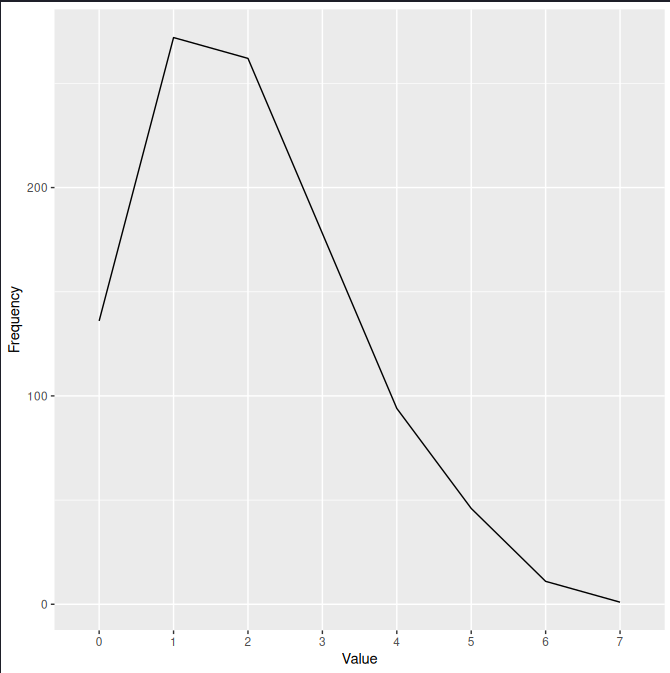
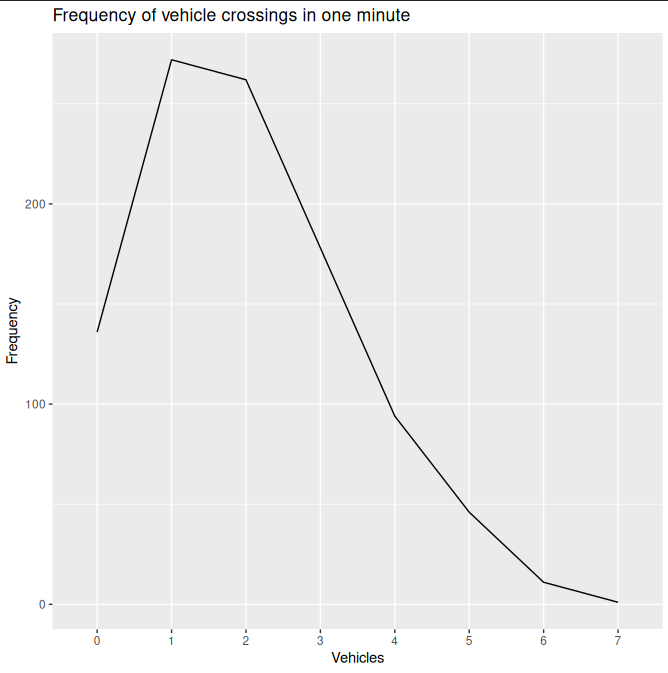
complete assignment?

diff --git a/assignment2/assignment2.md b/assignment2/assignment2.md
@@ -41,11 +41,11 @@ White 450.5  374.9 215.5   339.1
 
 ### _c. State appropriate hypotheses and then carry out the relevant hypothesis test, at the 5% level of significance, to determine if there is an association between the Egg size and Type of egg._
 
-$H_0$ (Null hypothesis): In the population, the Egg size and Type of egg are independent.
+H0 (Null hypothesis): In the population, the Egg size and Type of egg are independent.
 
-$H_1$ (Alternative hypothesis): In the population, the Egg size and Type of egg are dependent.
+H1 (Alternative hypothesis): In the population, the Egg size and Type of egg are dependent.
 
-A Chi-square test was carried out at the 95% confidence level:
+A Chi-square test was carried out at the 95% confidence level (a = 0.05, all cell counts are greater than 5):
 
 ```
 > chisq.test(eggs)
@@ -55,7 +55,7 @@ A Chi-square test was carried out at the 95% confidence level:
 data:  eggs
 X-squared = 54.149, df = 3, p-value = 1.043e-11
 ```
-The p-value was less than 0.001 (p < 0.001), thus the null hypothesis is not rejected. At 5% level of significance, data does not provide sufficient evidence to conclude that Egg size and Type of egg are dependent.
+The p-value was less than 0.001 (p < 0.001), thus the null hypothesis is not rejected. At 5% level of significance, data does not provide sufficient evidence to conclude that the Egg size and egg Type of purchased cartons are dependent.
 
 ## Question 2
 
@@ -146,7 +146,11 @@ _The number of vehicles pass a bridge in one-minute interval were recorded over 
 
 ```
 > expected$Actual <- table(passes$no_of.vec)
-> ggplot(expected, aes(Value)) + geom_line(aes(y = Expected, colour="Expected")) + geom_line(aes(y = Actual, colour="Actual")) + ylab("Frequency")
+> ggplot(expected, aes(Value)) + 
+        geom_line(aes(y = Expected, colour="Expected")) +
+        geom_line(aes(y = Actual, colour="Actual")) + 
+        ylab("Frequency") +
+        ggtitle("Actual vs expected vehicle frequencies")
 ```
 ![](./plots/Q3e_frequency_actual_vs_expected.png)
 
@@ -187,15 +191,7 @@ _Suppose birth weights of full-term babies have a normal distribution with mean 
 
 ## Question 5
 
-_Suppose a dataset has two numerical variables, $X$ and $Y$. Write a function in R to compute the sample correlation $r\\_X\\_Y$ between the two variables, $X$ and $Y$ is given by_
-
-$$ r\\_X\\_Y = {S\\_X\\_Y \over S\\_YS\\_X} $$
-
-_where_
-
-$$ S\\_X\\_Y = {\sum\\_1^n(X - \bar{X})(Y - \bar{Y}) \over n - 1}, S\\_X = \sqrt{\sum\\_1^n(X - \bar{X})^2 \over n - 1}, S\\_Y = \sqrt{\sum\\_1^n(Y - \bar{Y})^2 \over n - 1} $$
-
-_and $n$ is the sample size and $\bar{X}$ and $\bar{Y}$ are the sample means for the variables $X$ and $Y$._
+![](./q5_math.png)
 
 ```r
 > correlation_s <- function(x, y, n) {
@@ -225,12 +221,13 @@ _The dataset was extracted from a study investigated the adequacy of the AQ and 
 
 ### _a. It is often felt that on average female have better quality of life than male counterpart. Check all the assumptions and choose an appropriate hypothesis test to investigate this contention using the variables from your data._
 
-$H_0$ (Null hypothesis): In the population, female mean quality of life is less than or equal to mean male quality of life.
+H0 (Null hypothesis): In the population, female mean quality of life is equal to mean male quality of life.
 
-$H_1$ (Alternative hypothesis): In the population, female mean quality of life is greater than mean male quality of life.
+H1 (Alternative hypothesis): In the population, female mean quality of life is greater than mean male quality of life.
 
 The following assumptions need to be verified:
-  - Samples have approximately equal variations, and 
+  - Two groups are independent
+  - Samples have approximately equal variances, and 
   - Samples are drawn from normally distributed populations
 
 ```
@@ -265,29 +262,35 @@ W = 0.91286, p-value = 0.02666
 data:  q6[q6$X == "Female", "Q22"]
 W = 0.9824, p-value = 0.3922
 ```
-As seen from the boxplot, Female and Male Q22 responses appear to have roughly equal variance, with the Levene test confirming this (p > 0.05). However, Male Q22 responses seem to be negatively skewed, whereas Female responses appear normal, as confirmed by the Shapiro-Wilk tests (Female p > 0.05, Male p < 0.05). Therefore, the assumption of normality is violated, and the non-parametric Mann-Whitney U test should be used instead:
+From the study design, the two groups Male and Female are independent. As seen from the boxplot, Female and Male Q22 responses appear to have roughly equal variance, with the Levene test confirming this (0.1178 > 0.05). Male Q22 responses seem to be negatively skewed, whereas Female responses appear normal, as confirmed by the Shapiro-Wilk tests (Female p > 0.05, Male p < 0.05). However, the sample size is sufficiently large (101 > 30), thus it can be assumed the sample means are approximately normal. Therefore, a two sample t-test with pooled variance can be carried out:
 
 ```
-> wilcox.test(q6$Q22 ~ q6$X, data=q6)
+> t.test(q6$Q22 ~ q6$X, alternative="greater", var.equal=T)
 
-        Wilcoxon rank sum test with continuity correction
+        Two Sample t-test
 
 data:  q6$Q22 by q6$X
-W = 1290, p-value = 0.02533
-alternative hypothesis: true location shift is not equal to 0
+t = 2.5203, df = 99, p-value = 0.006662
+alternative hypothesis: true difference in means between group Female and group Male is greater than 0
+95 percent confidence interval:
+ 0.9057404       Inf
+sample estimates:
+mean in group Female   mean in group Male 
+            32.43243             29.77778 
 ```
-The calculated p-value is 0.02533 < 0.05. Therefore, we reject $H_0$ in favour of $H_1$ at 5% level of significance.
+The calculated p-value is 0.006662 < 0.05. Therefore, we reject the null hypothesis in favour of the alternative hypothesis at 5% level of significance.
 
-We could conclude that based on the samples considered, the population mean scores of quality of life are different to one another. Sample mean value for the female group is more than the male group, and the difference is statistically significant.
+We could conclude that based on the samples considered, the population mean scores of quality of life between the two genders are different to one another. Sample mean quality of life for the female group is more than the male group, and the difference is statistically significant.
 
 ### _b. It is often felt that the on average female have more odd behaviours than male counterpart. Check all the assumptions and choose an appropriate hypothesis test to investigate this contention using two of the variables from your data._
 
-$H_0$ (Null hypothesis): In the population, female mean odd behaviour is less than or equal to mean male odd behaviour.
+H0 (Null hypothesis): In the population, female mean odd behaviour is equal to male mean odd behaviour.
 
-$H_1$ (Alternative hypothesis): In the population, female mean odd behaviour is greater than mean male odd behaviour.
+H1 (Alternative hypothesis): In the population, female mean odd behaviour is greater than male mean odd behaviour.
 
 The following assumptions need to be verified:
-  - Samples have approximately equal variations, and 
+  - Two groups are independent
+  - Samples have approximately equal variances, and 
   - Samples are drawn from normally distributed populations
 
 ```
@@ -321,16 +324,25 @@ W = 0.95887, p-value = 0.3482
 data:  q6[q6$X == "Female", "Q10"]
 W = 0.92439, p-value = 0.000277
 ```
-
+From the study design, the two groups Male and Female are independent. As seen from the boxplot, the female variance appears slightly greater, however the Levene's test is 0.6276 > 0.05, thus the variances are approximately equal. Moreover, Male scores appear normal, whereas Female scores appear positively skewed, as confirmed by the Shapiro-Wilk tests (Male p 0.3482 > 0.05, Female p 0.000277 < 0.05). However, the sample size is sufficiently large (101 > 30), thus it can be assumed the sample means are approximately normal. Therefore, a two sample t-test using pooled variance can be carried out:
 
 ```
-> wilcox.test(q6$Q10 ~ q6$X, data=q6)
+> t.test(q6$Q10 ~ q6$X, alternative="greater", var.equal=T)
 
-        Wilcoxon rank sum test with continuity correction
+        Two Sample t-test
 
 data:  q6$Q10 by q6$X
-W = 823, p-value = 0.1766
+t = -1.2268, df = 99, p-value = 0.8886
+alternative hypothesis: true difference in means between group Female and group Male is greater than 0
+95 percent confidence interval:
+ -3.001315       Inf
+sample estimates:
+mean in group Female   mean in group Male 
+            13.24324             14.51852
 ```
+The calculated p value is 0.8886 > 0.05. Therefore, we reject the alternative hypothesis in favour of the null hypothesis at 5% level of significance.
+
+We could conclude that based on the samples considered, the population mean scores of odd behaviour between the two genders are not different to one another. Sample mean odd behaviour for the male group is more than the female group, but the observed difference is not statistically significant.
 
 ## Question 7
 
